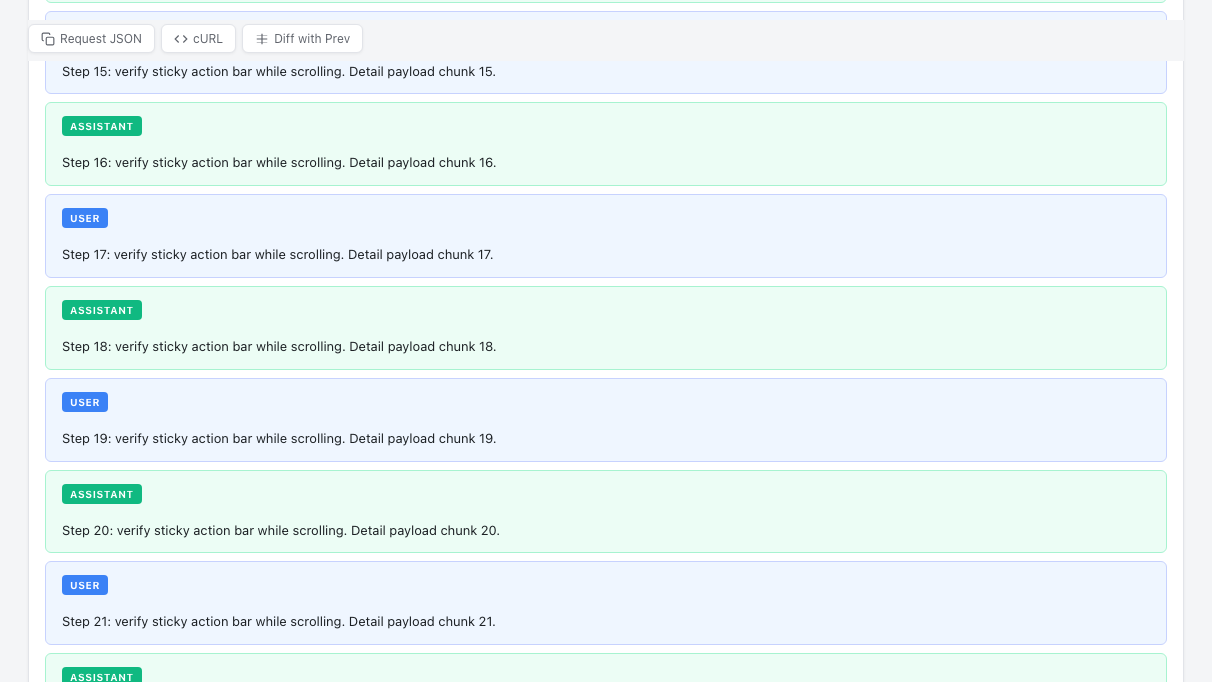
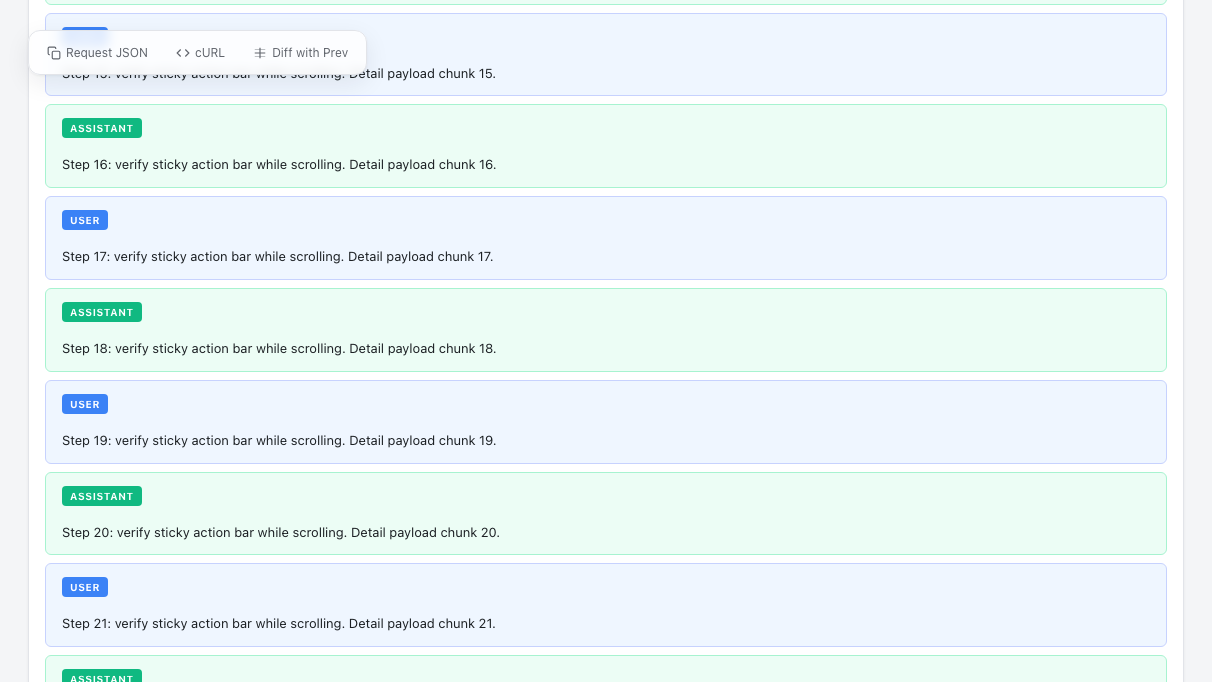
style(viewer): 优化吸顶操作栏视觉为悬浮胶囊

diff --git a/claude_tap/viewer.html b/claude_tap/viewer.html
@@ -197,19 +197,33 @@ body { font-family: var(--sans); background: var(--bg); color: var(--text); heig
 
 /* ─── Action bar ─── */
 .action-bar {
-  display: flex; gap: 6px; margin-bottom: 16px; flex-wrap: wrap;
-  position: sticky; top: 0; z-index: 3;
-  background: var(--bg); padding: 4px 0 8px;
+  display: inline-flex; align-items: center; gap: 8px; flex-wrap: wrap;
+  position: sticky; top: 10px; z-index: 6;
+  width: fit-content; max-width: 100%;
+  margin: 0 0 14px;
+  padding: 7px 8px;
+  border: 1px solid var(--border);
+  border-radius: 12px;
+  background: rgba(255, 255, 255, 0.82);
+  backdrop-filter: blur(6px);
+  -webkit-backdrop-filter: blur(6px);
+  box-shadow: 0 8px 24px rgba(15, 23, 42, 0.08), var(--shadow-sm);
 }
 .act-btn {
   display: inline-flex; align-items: center; gap: 5px;
-  font-size: 12px; padding: 6px 12px; border-radius: var(--radius-sm);
-  border: 1px solid var(--border); background: var(--bg-card);
+  font-size: 12px; padding: 7px 10px; border-radius: 8px;
+  border: none; background: transparent;
   color: var(--text-secondary); cursor: pointer; font-family: var(--sans);
-  transition: all .15s; box-shadow: var(--shadow-sm);
+  transition: all .15s;
 }
-.act-btn:hover { border-color: var(--blue); color: var(--blue); }
+.act-btn:hover { background: var(--bg-hover); color: var(--blue); }
+.act-btn:active { transform: translateY(1px); }
 .act-btn svg { width: 14px; height: 14px; }
+[data-theme="dark"] .action-bar {
+  background: rgba(22, 27, 34, 0.78);
+  border-color: #3a4048;
+  box-shadow: 0 10px 28px rgba(0, 0, 0, 0.4), var(--shadow-sm);
+}
 
 /* ─── Section ─── */
 .section {
@@ -722,8 +736,17 @@ body { font-family: var(--sans); background: var(--bg); color: var(--text); heig
   }
 
   /* R3: Action buttons — stack vertically, min 44px touch target */
-  .action-bar { flex-direction: column; gap: 6px; }
+  .action-bar {
+    display: flex;
+    width: 100%;
+    top: 0;
+    padding: 8px;
+    gap: 6px;
+    border-radius: 10px;
+    flex-direction: column;
+  }
   .act-btn {
+    width: 100%;
     min-height: 44px;
     justify-content: center;
     font-size: 13px;
